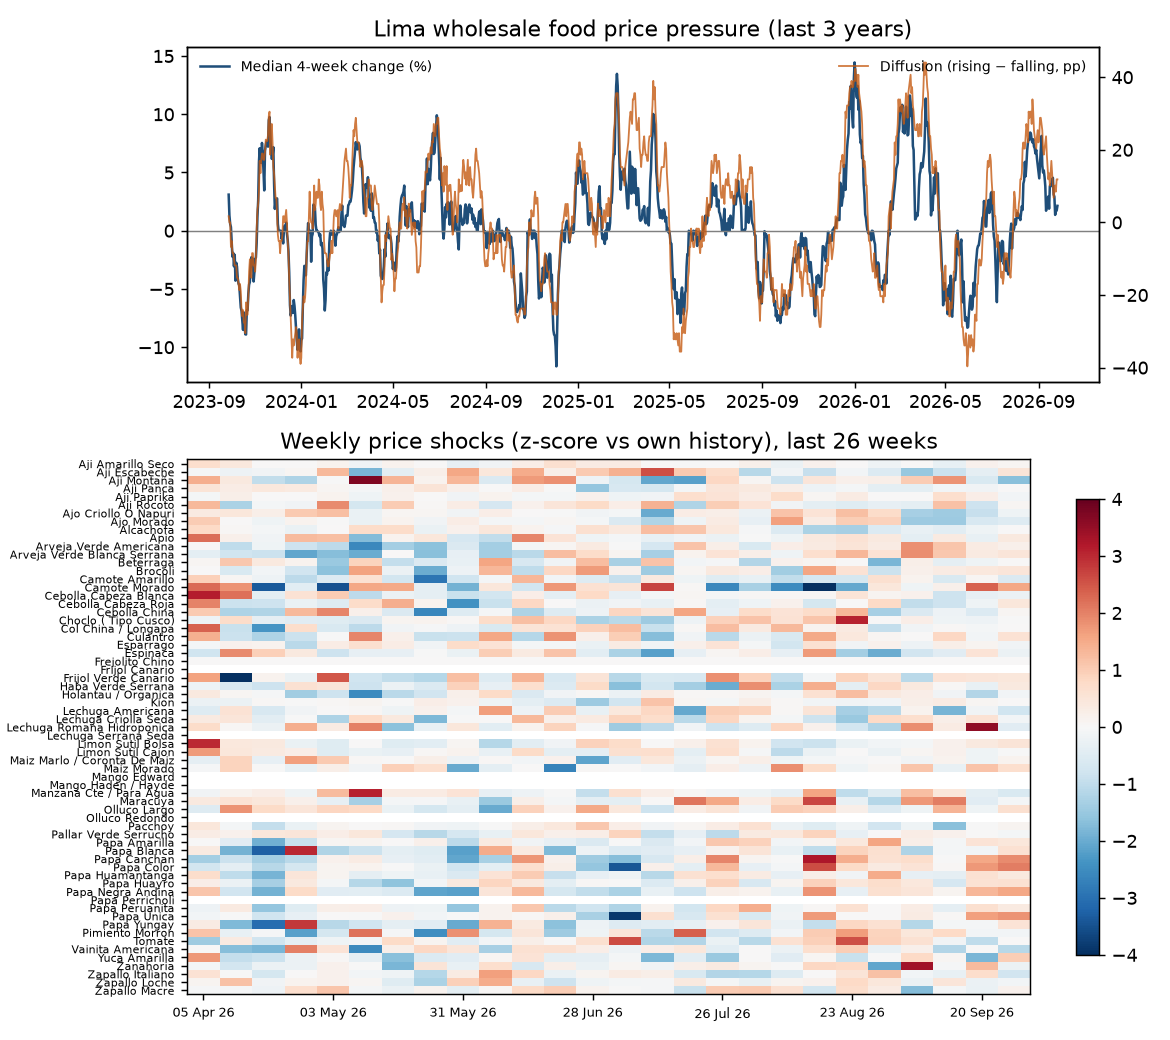
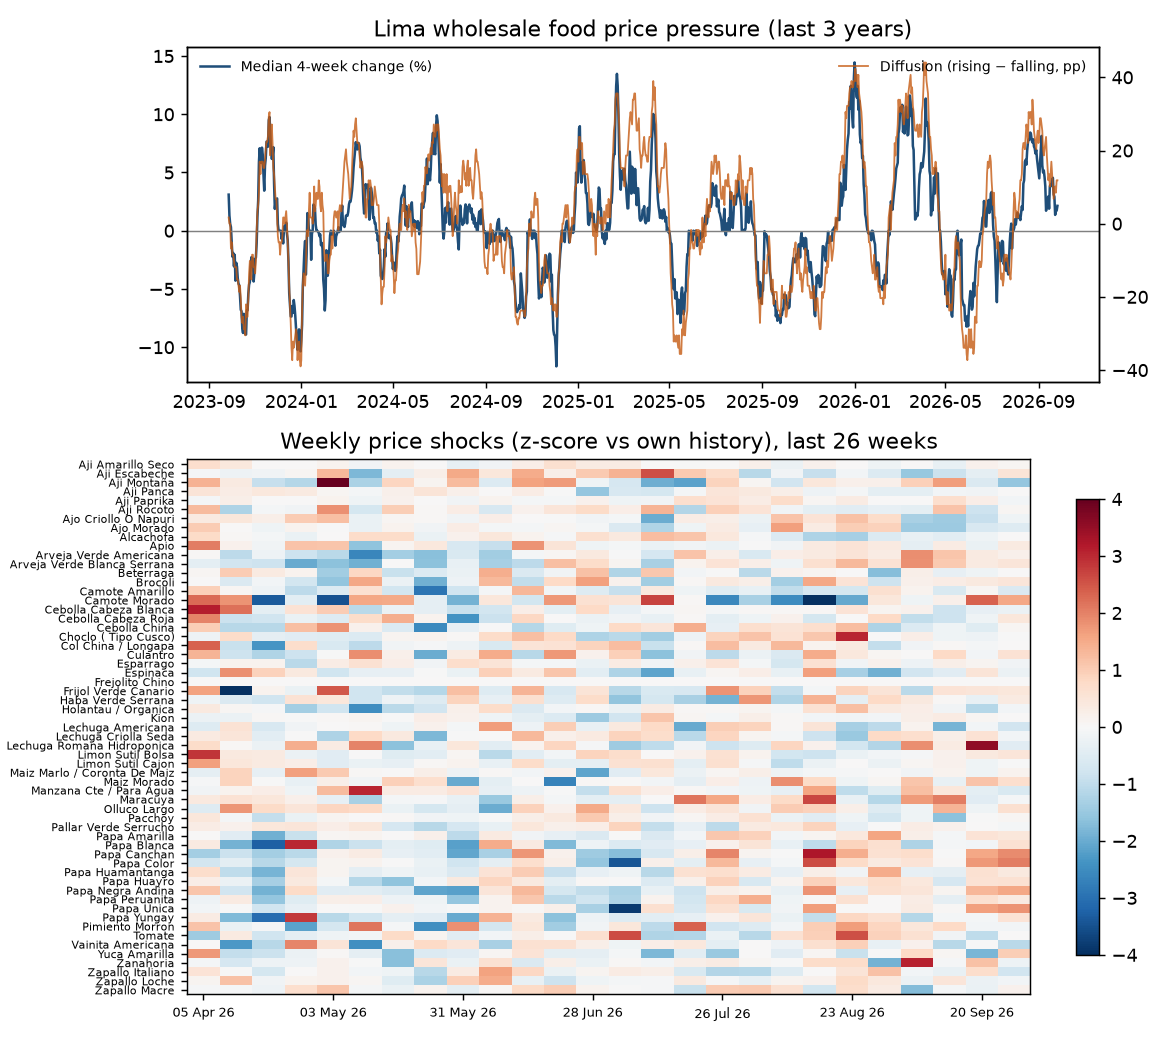
Leave varieties without recent data out of the shock heatmap

diff --git a/tests/test_indicators.py b/tests/test_indicators.py
@@ -57,3 +57,11 @@ def test_summary_one_row_per_active_variety():
     s = ind.summary(clean, sm, ind.change(sm, 28), ind.change(sm, 365), ind.volatility(w))
     assert set(s["variety"]) == {"Up", "Flat", "Down"}
     assert s.set_index("variety").loc["Up", "chg28"] == pytest.approx(5.6, rel=1e-3)
+
+
+def test_shocks_leave_out_varieties_without_recent_data():
+    clean = _clean()
+    old = pd.DataFrame({"date": pd.date_range("2024-01-01", periods=100), "variety": "Gone", "price": 5.0,
+                        "category": "Fruits", "product": "Gone", "stale": False})
+    sm = ind.smooth(ind.wide(pd.concat([clean, old])))
+    assert "Gone" not in ind.shocks(sm, 26).index

diff --git a/src/foodprices/indicators.py b/src/foodprices/indicators.py
@@ -31,8 +31,10 @@ def pressure(chg: pd.DataFrame) -> pd.DataFrame:
 
 def shocks(sm: pd.DataFrame, weeks: int) -> pd.DataFrame:
     weekly = np.log(sm.resample("W").last()).diff()
-    z = (weekly / weekly.std()).clip(-4, 4)
-    return z.iloc[-weeks:].T
+    std = weekly.std()
+    z = (weekly / std.where(std > 0)).clip(-4, 4)
+    z = z.mask(weekly.notna() & z.isna(), 0.0)          # data but no variability: no shock
+    return z.iloc[-weeks:].T.dropna(how="all")          # varieties with no data in the window are left out
 
 
 def summary(clean, sm, chg28, yoy, vol) -> pd.DataFrame:

diff --git a/README.md b/README.md
@@ -12,12 +12,12 @@ price-change, volatility and price-pressure indicators, and republishes a static
 ![Dashboard preview](reports/figures/preview.png)
 
 <!-- STATUS:START -->
-**Data through 2026-09-26** (updated 2026-09-27T16:40Z), 59 active varieties at the Gran Mercado Mayorista de Lima.
+**Data through 2026-09-26** (updated 2026-09-27T16:48Z), 59 active varieties at the Gran Mercado Mayorista de Lima.
 
 - Median 4-week price change: **+2.1%**; diffusion (share rising >10% minus share falling >10%): **+11.9 pp**.
 - Largest 4-week rises: Lechuga Romana Hidroponica (+61.9%), Arveja Verde Blanca Serrana (+59.6%), Zanahoria (+58.9%), Arveja Verde Americana (+52.5%), Papa Color (+39.3%).
 - Largest 4-week falls: Vainita Americana (-45.9%), Ajo Criollo O Napuri (-39.6%), Lechuga Americana (-35.3%), Aji Escabeche (-32.9%), Cebolla China (-30.8%).
-- Data quality (2010-01-01 to 2026-09-26): 358,765 clean observations, 0 duplicates, 0 non-positive prices and 994 outliers removed; median coverage 99%; 1 varieties currently stale, 6 discontinued, 1 uncategorised.
+- Data quality (2010-01-01 to 2026-09-26): 359,680 clean observations, 0 duplicates, 0 non-positive prices and 79 outliers removed; median coverage 99%; 1 varieties currently stale, 6 discontinued, 1 uncategorised.
 <!-- STATUS:END -->
 
 ## Pipeline
